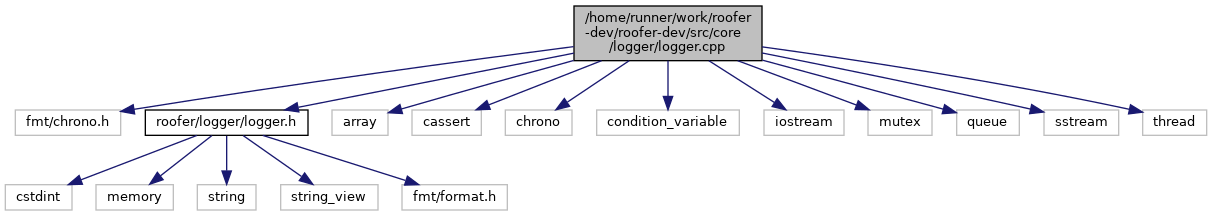
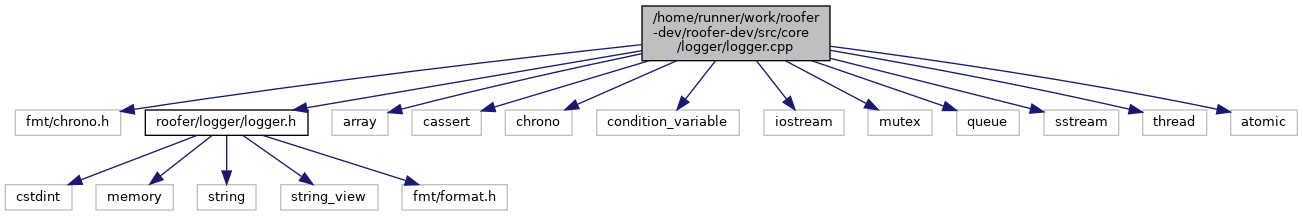
deploy: 15d7dae92d57ac355a546ca8529a8f6ea12ccf8c

diff --git a/logger_8h_source.html b/logger_8h_source.html
@@ -154,12 +154,12 @@ $(function() {
 <div class="ttc" id="aclassroofer_1_1logger_1_1Logger_html_a6a1d8f8ffb486d251532eac3edf14b26"><div class="ttname"><a href="classroofer_1_1logger_1_1Logger.html#a6a1d8f8ffb486d251532eac3edf14b26">roofer::logger::Logger::warning</a></div><div class="ttdeci">void warning(fmt::format_string&lt; Args... &gt; fmt, Args &amp;&amp;...args)</div><div class="ttdef"><b>Definition:</b> logger.h:71</div></div>
 <div class="ttc" id="aclassroofer_1_1logger_1_1Logger_html_a8a66f77a029d2ba2918ddb418bcb233c"><div class="ttname"><a href="classroofer_1_1logger_1_1Logger.html#a8a66f77a029d2ba2918ddb418bcb233c">roofer::logger::Logger::error</a></div><div class="ttdeci">void error(fmt::format_string&lt; Args... &gt; fmt, Args &amp;&amp;...args)</div><div class="ttdef"><b>Definition:</b> logger.h:76</div></div>
 <div class="ttc" id="aclassroofer_1_1logger_1_1Logger_html_a93c798df8ffba2558db974d88a9c8ad3"><div class="ttname"><a href="classroofer_1_1logger_1_1Logger.html#a93c798df8ffba2558db974d88a9c8ad3">roofer::logger::Logger::info</a></div><div class="ttdeci">void info(fmt::format_string&lt; Args... &gt; fmt, Args &amp;&amp;...args)</div><div class="ttdef"><b>Definition:</b> logger.h:66</div></div>
-<div class="ttc" id="aclassroofer_1_1logger_1_1Logger_html_a9ae66fa2ff2a0ca649a3e145b31fcbd2"><div class="ttname"><a href="classroofer_1_1logger_1_1Logger.html#a9ae66fa2ff2a0ca649a3e145b31fcbd2">roofer::logger::Logger::get_logger</a></div><div class="ttdeci">static Logger &amp; get_logger()</div><div class="ttdoc">Returns a reference to the single logger instance.</div><div class="ttdef"><b>Definition:</b> logger.cpp:102</div></div>
+<div class="ttc" id="aclassroofer_1_1logger_1_1Logger_html_a9ae66fa2ff2a0ca649a3e145b31fcbd2"><div class="ttname"><a href="classroofer_1_1logger_1_1Logger.html#a9ae66fa2ff2a0ca649a3e145b31fcbd2">roofer::logger::Logger::get_logger</a></div><div class="ttdeci">static Logger &amp; get_logger()</div><div class="ttdoc">Returns a reference to the single logger instance.</div><div class="ttdef"><b>Definition:</b> logger.cpp:103</div></div>
 <div class="ttc" id="aclassroofer_1_1logger_1_1Logger_html_ab65290f387122f8678eb3fc0406d5129"><div class="ttname"><a href="classroofer_1_1logger_1_1Logger.html#ab65290f387122f8678eb3fc0406d5129">roofer::logger::Logger::debug</a></div><div class="ttdeci">void debug(fmt::format_string&lt; Args... &gt; fmt, Args &amp;&amp;...args)</div><div class="ttdef"><b>Definition:</b> logger.h:61</div></div>
-<div class="ttc" id="aclassroofer_1_1logger_1_1Logger_html_abaf92514bcc9039aa8437c6ab6e5150c"><div class="ttname"><a href="classroofer_1_1logger_1_1Logger.html#abaf92514bcc9039aa8437c6ab6e5150c">roofer::logger::Logger::set_level</a></div><div class="ttdeci">void set_level(LogLevel level)</div><div class="ttdoc">Set the minimum level for the logger implementation.</div><div class="ttdef"><b>Definition:</b> logger.cpp:97</div></div>
+<div class="ttc" id="aclassroofer_1_1logger_1_1Logger_html_abaf92514bcc9039aa8437c6ab6e5150c"><div class="ttname"><a href="classroofer_1_1logger_1_1Logger.html#abaf92514bcc9039aa8437c6ab6e5150c">roofer::logger::Logger::set_level</a></div><div class="ttdeci">void set_level(LogLevel level)</div><div class="ttdoc">Set the minimum level for the logger implementation.</div><div class="ttdef"><b>Definition:</b> logger.cpp:98</div></div>
 <div class="ttc" id="aclassroofer_1_1logger_1_1Logger_html_abc5eed947d380872549687e7aa02389e"><div class="ttname"><a href="classroofer_1_1logger_1_1Logger.html#abc5eed947d380872549687e7aa02389e">roofer::logger::Logger::~Logger</a></div><div class="ttdeci">~Logger()=default</div></div>
 <div class="ttc" id="aclassroofer_1_1logger_1_1Logger_html_adb2f083c86b41b0d7c11d1ef8833f4c7"><div class="ttname"><a href="classroofer_1_1logger_1_1Logger.html#adb2f083c86b41b0d7c11d1ef8833f4c7">roofer::logger::Logger::critical</a></div><div class="ttdeci">void critical(fmt::format_string&lt; Args... &gt; fmt, Args &amp;&amp;...args)</div><div class="ttdef"><b>Definition:</b> logger.h:81</div></div>
-<div class="ttc" id="anamespaceroofer_1_1logger_html"><div class="ttname"><a href="namespaceroofer_1_1logger.html">roofer::logger</a></div><div class="ttdoc">Internal logging backend implementation.</div><div class="ttdef"><b>Definition:</b> logger.cpp:25</div></div>
+<div class="ttc" id="anamespaceroofer_1_1logger_html"><div class="ttname"><a href="namespaceroofer_1_1logger.html">roofer::logger</a></div><div class="ttdoc">Internal logging backend implementation.</div><div class="ttdef"><b>Definition:</b> logger.cpp:26</div></div>
 <div class="ttc" id="anamespaceroofer_1_1logger_html_a78852f4f987d2d2adc98bc4232184047"><div class="ttname"><a href="namespaceroofer_1_1logger.html#a78852f4f987d2d2adc98bc4232184047">roofer::logger::LogLevel</a></div><div class="ttdeci">LogLevel</div><div class="ttdef"><b>Definition:</b> logger.h:28</div></div>
 <div class="ttc" id="anamespaceroofer_1_1logger_html_a78852f4f987d2d2adc98bc4232184047a3262d48df5d75e3452f0f16b313b7808"><div class="ttname"><a href="namespaceroofer_1_1logger.html#a78852f4f987d2d2adc98bc4232184047a3262d48df5d75e3452f0f16b313b7808">roofer::logger::LogLevel::off</a></div><div class="ttdeci">@ off</div></div>
 <div class="ttc" id="anamespaceroofer_1_1logger_html_a78852f4f987d2d2adc98bc4232184047a6637b88286cba926cc1bb0ef49f9d2e8"><div class="ttname"><a href="namespaceroofer_1_1logger.html#a78852f4f987d2d2adc98bc4232184047a6637b88286cba926cc1bb0ef49f9d2e8">roofer::logger::LogLevel::default_level</a></div><div class="ttdeci">@ default_level</div></div>

diff --git a/logger_8cpp.html b/logger_8cpp.html
@@ -85,12 +85,13 @@ $(function() {
 <code>#include &lt;queue&gt;</code><br />
 <code>#include &lt;sstream&gt;</code><br />
 <code>#include &lt;thread&gt;</code><br />
+<code>#include &lt;atomic&gt;</code><br />
 </div><div class="textblock"><div class="dynheader">
 Include dependency graph for logger.cpp:</div>
 <div class="dyncontent">
 <div class="center"><img src="logger_8cpp__incl.png" border="0" usemap="#a_2home_2runner_2work_2roofer-dev_2roofer-dev_2src_2core_2logger_2logger_8cpp" alt=""/></div>
 <map name="a_2home_2runner_2work_2roofer-dev_2roofer-dev_2src_2core_2logger_2logger_8cpp" id="a_2home_2runner_2work_2roofer-dev_2roofer-dev_2src_2core_2logger_2logger_8cpp">
-<area shape="rect" title=" " alt="" coords="574,5,762,61"/>
+<area shape="rect" title=" " alt="" coords="642,5,830,61"/>
 <area shape="rect" title=" " alt="" coords="15,109,121,136"/>
 <area shape="rect" href="logger_8h.html" title=" " alt="" coords="145,109,308,136"/>
 <area shape="rect" title=" " alt="" coords="332,109,388,136"/>
@@ -102,6 +103,7 @@ Include dependency graph for logger.cpp:</div>
 <area shape="rect" title=" " alt="" coords="957,109,1019,136"/>
 <area shape="rect" title=" " alt="" coords="1044,109,1119,136"/>
 <area shape="rect" title=" " alt="" coords="1143,109,1207,136"/>
+<area shape="rect" title=" " alt="" coords="1231,109,1297,136"/>
 <area shape="rect" title=" " alt="" coords="5,184,72,211"/>
 <area shape="rect" title=" " alt="" coords="96,184,173,211"/>
 <area shape="rect" title=" " alt="" coords="197,184,256,211"/>
